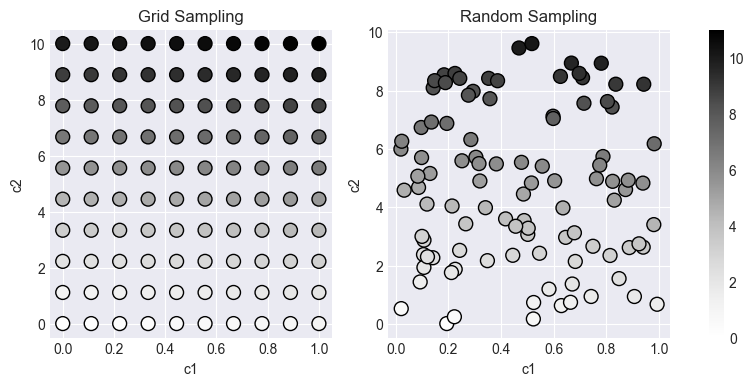
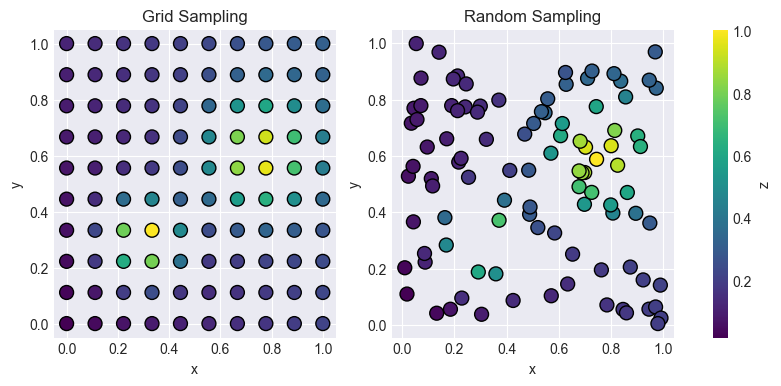
Updated tutorials

diff --git a/docs/tutorials/example_workflow.md b/docs/tutorials/example_workflow.md
@@ -1,6 +1,10 @@
 # Tutorial: Sampler comparison
 
-This tutorial will demonstrate the difference between the `Random sampler` and the `Grid sampler` over a 2D parameter space. Given two input parameters, `c1` and `c2`, the 
+This tutorial will demonstrate the difference between the `Random sampler` and the `Grid sampler` over a 2D parameter space. The runner implements a synthetic test funtion consisting of two Gaussian peaks with a background slope ([Synthetic Double Gaussian Runner](runners/synthetic_double_gaussian_runner.md)).
+The funciton implemented in the runner (with default parameters) look like this:
+
+![double gaussian](img/synthetic_double_gaussian.png)
+
 Note that you need to have enchanted-surrogates installed when running this example.
 
 Setup two new configuration files based on `configs/example_local.yaml`.
@@ -17,9 +21,9 @@ Edit `example_local_random.yaml` to have parameters:
 samplers:
   s1:
     type: RandomSampler
-    bounds: [[0.0, 1.0], [0.0, 10.0]]
+    bounds: [[0.0, 1.0], [0.0, 1.0]]
     budget: 100
-    parameters: ['c1', 'c2']
+    parameters: ['x', 'y']
 
 ...
 
@@ -37,9 +41,9 @@ Edit `example_local_grid.yaml` to have parameters:
 samplers:
   s1:
     type: GridSampler
-    bounds: [[0.0, 1.0], [0.0, 10.0]]
+    bounds: [[0.0, 1.0], [0.0, 1.0]]
     num_samples: [10, 10]
-    parameters: ['c1', 'c2']
+    parameters: ['x', 'y']
 
 ...
 
@@ -90,22 +94,23 @@ vmin = min(df_grid['output'].min(), df_random['output'].min())
 vmax = max(df_grid['output'].max(), df_random['output'].max())
 norm = mpl.colors.Normalize(vmin=vmin, vmax=vmax)
 
-sc_grid = axs[0].scatter(df_grid['c1'], df_grid['c2'], c=df_grid['output'], norm=norm, edgecolor='black', s=100)
-sc_random = axs[1].scatter(df_random['c1'], df_random['c2'], c=df_random['output'], norm=norm, edgecolor='black', s=100)
+sc_grid = axs[0].scatter(df_grid['x'], df_grid['y'], c=df_grid['output'], norm=norm, edgecolor='black', s=100)
+sc_random = axs[1].scatter(df_random['x'], df_random['y'], c=df_random['output'], norm=norm, edgecolor='black', s=100)
 
 axs[0].set_title('Grid Sampling')
 axs[1].set_title('Random Sampling')
 
 for ax in axs:
-    ax.set_xlabel('c1')
-    ax.set_ylabel('c2')
+    ax.set_xlabel('x')
+    ax.set_ylabel('y')
 
-fig.colorbar(sc_random, ax=axs)
+cbar = fig.colorbar(sc_random, ax=axs)
+cbar.set_label("z")
 plt.show()
 
 ```
 
-The above code snippet will create a figure that displays how the distribution of the sample points differ between the two samplers. The colorbar refers to the output value of the example runner (`c1 + c2`).
+The above code snippet will create a figure that displays how the distribution of the sample points differ between the two sampling strategies. The colorbar refers to the output value of the example runner.
 
 ![](img/random_vs_grid.png)
 

diff --git a/docs/tutorials/bayesian_optimization.md b/docs/tutorials/bayesian_optimization.md
@@ -1,6 +1,6 @@
 # Tutorial: Bayesian Optimization
 
-This tutorial explains the example Bayesian optimization workflow in Enchanted Surrogates. The Bayesian optimization example is a synthetic test case that uses the [Example BO Runner](runners/example_bayesian_optimization_runner.md), the [Example BO Parser](parsers/example_bayesian_optimization_parser.md), and an example configuration file  (`configs/example_bayesian_optimization_local.yaml`).
+This tutorial explains the example Bayesian optimization workflow in Enchanted Surrogates. The Bayesian optimization example is a synthetic test case that uses the [Synthetic Double Gaussian Runner](runners/synthetic_double_gaussion_runner.md), the [Synthetic Double Gaussian Parser](parsers/synthetic_double_gaussion_parser.md), and an example configuration file  (`configs/example_bayesian_optimization_local.yaml`).
 Make sure that when you installed `enchanted-surrogates`, you included the optional dependencies needed for the [Bayesian Optimization Sampler](samplers/bayesian_optimization_sampler.md). 
 
 ## Explanation
@@ -128,14 +128,14 @@ Use the same plotting code as above.
 
 ![fig](img/active_pool_sampling_output.png)
 
-
+The same number of samples were taken in both examples.
 
 
 ## Extending the example
 
 You can adapt this example for a real simulation by:
 
-- replacing `ExampleBayesianOptimizationRunner` with a runner that invokes your code
+- replacing `SyntheticDoubleGaussianRunner` with a runner that invokes your code
 - implementing a parser that reads the real output files and defining your objective in `collect_sample_information`
 - updating `bounds` and `parameters` to match your input space
 